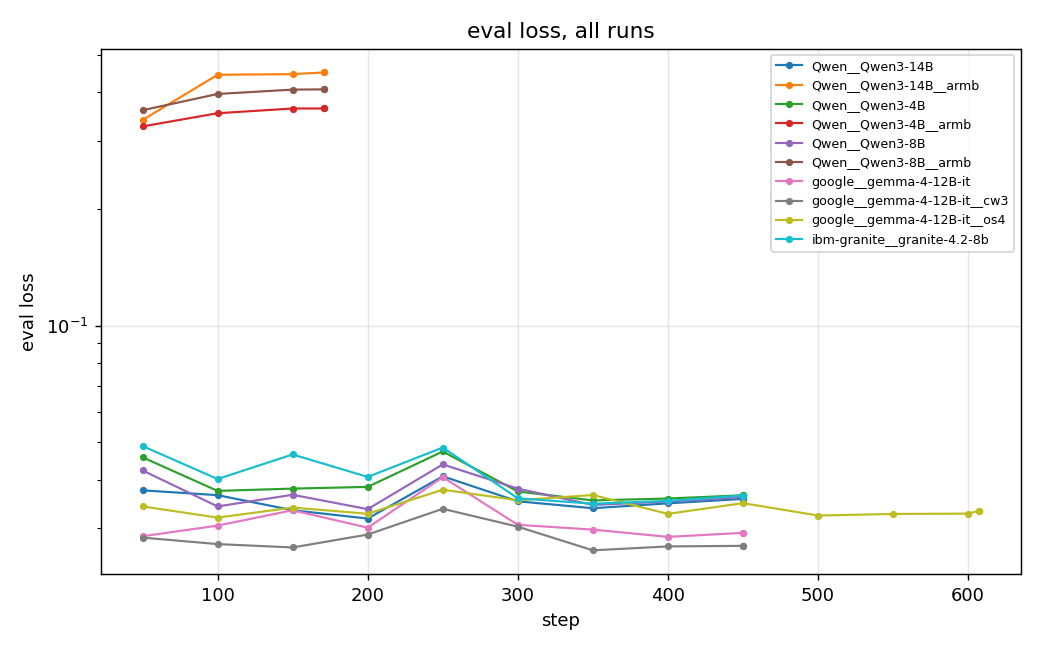
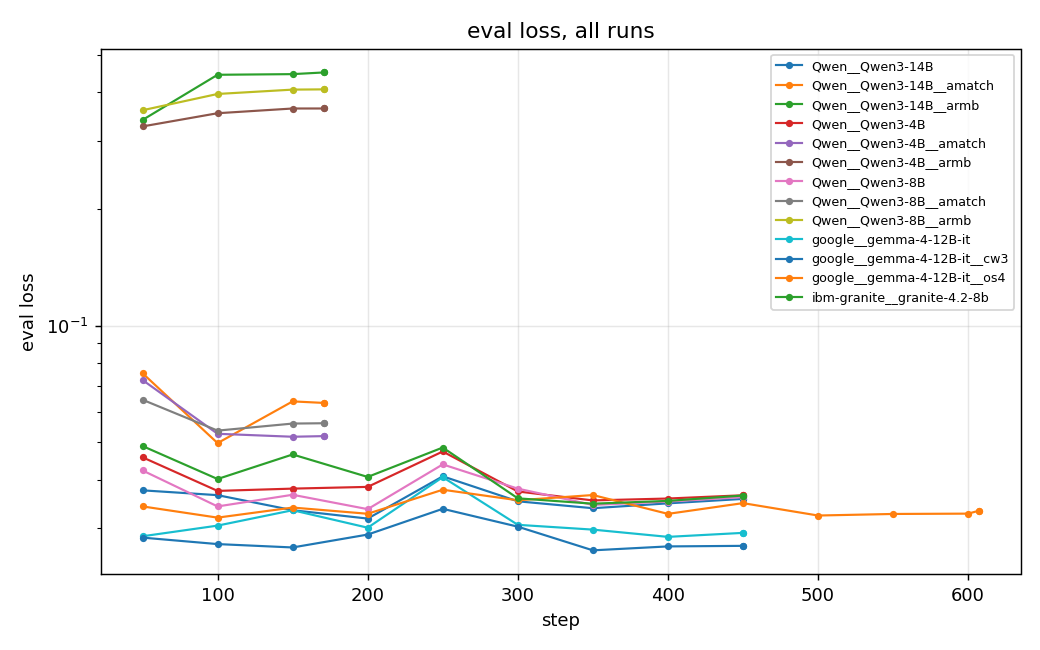
Arm B: negative result confirmed, prediction falsified on its merits
Subset-matched control (Arm A targets on the exact 2733 pairs Arm B used)
separates the confound I built in. Both effects are real and split by metric:
losing 62% of data costs evidence F1 most (-0.18 to -0.21), reasoning costs
Contradiction precision most (-0.084 to -0.112).

Paired bootstrap, 1200 resamples, data held fixed: all 12 comparisons across 3
models x 4 metrics are SEPARATED and NEGATIVE. No CI crosses zero.

Pre-registered prediction (reasoning improves Contradiction precision) is
falsified on its merits, not by the confound.

Not an implementation failure: 100% of rows emit a reasoning field, schema
validity 98.7-99.4%, zero parse failures, truncation under 1%.

Sharpest finding: reasoning HELPS base models (+0.152 mean Contradiction
precision from thinking mode in Phase 1) and HURTS fine-tuned ones (-0.097 mean
here). SFT already teaches the discrimination; articulating it first interferes.

diff --git a/ARMB_RESULTS.md b/ARMB_RESULTS.md
@@ -1,0 +1,96 @@
+# Arm B — reasoning-first targets. Negative result.
+
+**Pre-registered prediction: reasoning-first would improve Contradiction
+precision, Arm A's worst metric. FALSIFIED.** With training data held fixed,
+reasoning made Contradiction precision *worse* on all three models, and cost 3x
+the output tokens.
+
+## Method
+
+STaR (Zelikman et al. 2022) over the TRAIN split. Teacher Qwen3-32B (ungated,
+apache-2.0), blind Pass 1: the teacher never saw the gold verdict, so agreement
+with gold is a genuine derivation signal rather than post-hoc rationalisation.
+ContractNLI ships **no rationales** (annotations carry only `choice` and
+`spans`), so there is no ground-truth reasoning — agreement is the only
+correctness signal available.
+
+Four deterministic filters, no LLM judge (per brief): quotes must appear in the
+contract under the same `doc_harness.norm` the eval uses; evidence must cohere
+with gold; the prose verdict must match the JSON field; length within
+data-derived bounds (p1/p99, floor 20).
+
+**Verified-only: 2,733 rows of 7,188 (38.0%). Zero conditioned/rationalised
+rows.** Rows the teacher disagreed with are enriched in exactly the cases where
+its judgment is unreliable, so they were held back rather than capped.
+
+## The confound, and the control that removes it
+
+Arm B trained on 2,733 rows against Arm A's 7,188, so the first comparison
+varied **target schema AND data volume** at once. A subset-matched control —
+Arm A targets on the exact same 2,733 (document, hypothesis) pairs — isolates
+the schema.
+
+### Qwen3-14B
+
+| arm | macro-F1 | Contra P | evidence F1 | joint | out tok |
+|---|---|---|---|---|---|
+| A full (7,188) | 0.839 | 0.650 | 0.772 | 0.746 | 74 |
+| A matched (2,733) | 0.793 | 0.608 | 0.588 | 0.583 | 79 |
+| B reasoning (2,733) | 0.739 | 0.524 | 0.464 | 0.469 | 216 |
+| **data-loss cost** | −0.046 | −0.042 | **−0.184** | −0.163 | |
+| **reasoning effect** | **−0.054** | **−0.084** | −0.124 | −0.115 | **+137** |
+
+Both effects are real and they split by metric: **losing 62% of the data costs
+evidence F1 most**, **reasoning costs Contradiction precision most**.
+
+## Reasoning effect, paired bootstrap (1,200 resamples, data fixed)
+
+| model | macro-F1 | Contra precision | evidence F1 | joint |
+|---|---|---|---|---|
+| Qwen3-4B | −0.056 [−0.084,−0.028] | −0.112 [−0.179,−0.046] | −0.092 [−0.123,−0.063] | −0.067 [−0.092,−0.042] |
+| Qwen3-8B | −0.059 [−0.085,−0.032] | −0.094 [−0.157,−0.035] | −0.093 [−0.122,−0.061] | −0.078 [−0.101,−0.052] |
+| Qwen3-14B | −0.054 [−0.079,−0.026] | −0.084 [−0.148,−0.026] | −0.124 [−0.153,−0.094] | −0.114 [−0.141,−0.089] |
+
+**All 12 comparisons separated, all negative.** No confidence interval crosses
+zero. This is not noise.
+
+## This is not an implementation failure
+
+| | |
+|---|---|
+| rows emitting a reasoning field | **100%** |
+| schema validity | 98.7–99.4% |
+| parse failures | 0.0% |
+| truncation | <1% |
+
+The rationales are present, well-formed, and read as genuine derivations. The
+mechanism works; it just does not help.
+
+## The interesting part: reasoning helps base models and hurts fine-tuned ones
+
+Phase 1 measured thinking mode on the same task and the same models:
+
+| model | base | base + thinking | gain |
+|---|---|---|---|
+| Qwen3-14B | 0.399 | 0.576 | **+0.177** |
+| Qwen3-8B | 0.282 | 0.464 | **+0.183** |
+| Qwen3-4B | 0.349 | 0.444 | +0.096 |
+
+Reasoning gave an untrained model +0.152 mean on Contradiction precision. The
+same intervention, distilled into a fine-tuned model, costs −0.097 mean. SFT
+already teaches the clause-level discrimination; forcing the model to articulate
+it first appears to interfere rather than help.
+
+## Secondary finding: STaR's yield costs more than its reasoning
+
+The 62% filter rejection costs **−0.18 to −0.21 evidence F1** — larger than the
+reasoning effect on that metric. If reasoning were pursued further, raising
+yield matters more than improving the prompt.
+
+## What was NOT run
+
+Pass 2 (conditioned/rationalised rows) was deliberately not used. STaR shows
+rationalisation helps in domains with unambiguously correct answers; here the
+label itself is contested and teacher disagreement correlates with label
+ambiguity. Whether rationalisation helps or hurts in a contested-label domain
+remains open and is the more interesting follow-up.

diff --git a/TRAINING_DIAGNOSTICS.md b/TRAINING_DIAGNOSTICS.md
@@ -32,6 +32,26 @@ loss variance = effective batch too small.
 - **batch size** — late-run loss CV 0.11 — stable
 
 
+## Qwen__Qwen3-14B__amatch
+
+![Qwen__Qwen3-14B__amatch](training_curves/loss_Qwen__Qwen3-14B__amatch.png)
+
+| | |
+|---|---|
+| LoRA | r=16 alpha=32 dropout=0.05 |
+| optim | lr=0.0001 cosine warmup=0.03 epochs=1.0 |
+| batch | 1 x 16 = 16 |
+| final | train 0.0429 / eval 0.0631 |
+| cost | 35 min, peak 49.14 GB |
+
+**Diagnosis**
+
+- **convergence** — STILL FALLING — undertrained, more epochs would help
+- **rank/epochs** — eval rose 27% off its minimum — OVERFITTING, fewer epochs or lower rank
+- **learning rate** — grad-norm stable (median 0.130, max 0.320)
+- **batch size** — late-run loss CV 0.03 — stable
+
+
 ## Qwen__Qwen3-14B__armb
 
 ![Qwen__Qwen3-14B__armb](training_curves/loss_Qwen__Qwen3-14B__armb.png)
@@ -72,6 +92,26 @@ loss variance = effective batch too small.
 - **batch size** — late-run loss CV 0.11 — stable
 
 
+## Qwen__Qwen3-4B__amatch
+
+![Qwen__Qwen3-4B__amatch](training_curves/loss_Qwen__Qwen3-4B__amatch.png)
+
+| | |
+|---|---|
+| LoRA | r=16 alpha=32 dropout=0.05 |
+| optim | lr=0.0001 cosine warmup=0.03 epochs=1.0 |
+| batch | 1 x 16 = 16 |
+| final | train 0.0525 / eval 0.0519 |
+| cost | 18 min, peak 25.23 GB |
+
+**Diagnosis**
+
+- **convergence** — STILL FALLING — undertrained, more epochs would help
+- **rank/epochs** — healthy train/eval gap
+- **learning rate** — grad-norm stable (median 0.207, max 0.679)
+- **batch size** — late-run loss CV 0.04 — stable
+
+
 ## Qwen__Qwen3-4B__armb
 
 ![Qwen__Qwen3-4B__armb](training_curves/loss_Qwen__Qwen3-4B__armb.png)
@@ -110,6 +150,26 @@ loss variance = effective batch too small.
 - **rank/epochs** — healthy train/eval gap
 - **learning rate** — grad-norm stable (median 0.167, max 0.782)
 - **batch size** — late-run loss CV 0.10 — stable
+
+
+## Qwen__Qwen3-8B__amatch
+
+![Qwen__Qwen3-8B__amatch](training_curves/loss_Qwen__Qwen3-8B__amatch.png)
+
+| | |
+|---|---|
+| LoRA | r=16 alpha=32 dropout=0.05 |
+| optim | lr=0.0001 cosine warmup=0.03 epochs=1.0 |
+| batch | 1 x 16 = 16 |
+| final | train 0.0524 / eval 0.0560 |
+| cost | 24 min, peak 34.64 GB |
+
+**Diagnosis**
+
+- **convergence** — STILL FALLING — undertrained, more epochs would help
+- **rank/epochs** — healthy train/eval gap
+- **learning rate** — grad-norm stable (median 0.188, max 0.585)
+- **batch size** — late-run loss CV 0.07 — stable
 
 
 ## Qwen__Qwen3-8B__armb
